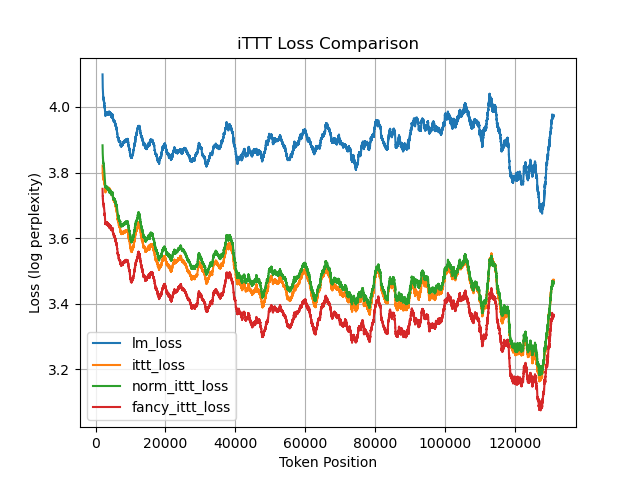
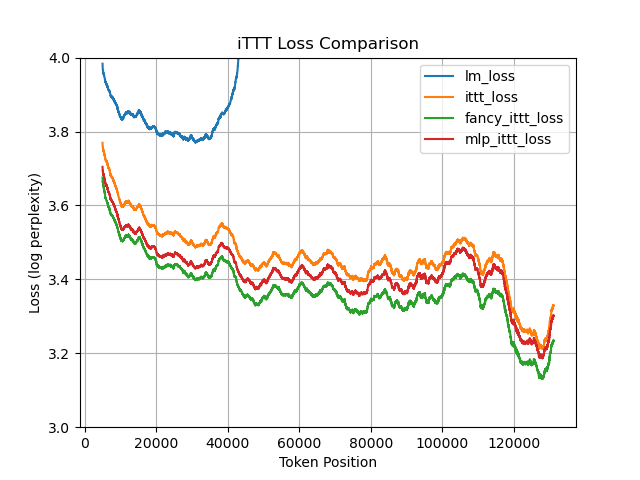
kjnkjn

diff --git a/src/compare_ittt.py b/src/compare_ittt.py
@@ -19,24 +19,24 @@ from utils.loss_utils import lm_loss_fn
 
 DEVICE = torch.device("cuda" if torch.cuda.is_available() else "cpu")
 
-LM_URL = 'aklein4/iTTT-TPU_attn-baseline-1b'
+LM_URL = 'aklein4/iTTT-TPU_attn-baseline-theta-1b'
 LM_STEP = 2000
 
-ITTT_URL = 'aklein4/iTTT-TPU_fancy-momentum-1b'
+ITTT_URL = 'aklein4/iTTT-TPU_mlp-1b'
 ITTT_STEP = 500
 
 DATA_URL = "Geralt-Targaryen/books3"
 TOKENIZER_URL = os.path.join(constants.LOCAL_DATA_PATH, "tokenizer")
 
 NUM_EXAMPLES = 64
-BS = 8
+BS = 2
 
 SEQUENCE_LENGTH = 1024 * 128
 
-THIS_PREFIX = "fancy_"
+THIS_PREFIX = "mlp_"
 PREFIX = "extrapolate_"
 
-DO_LM = False
+DO_LM = True
 
 
 def main():
@@ -124,13 +124,13 @@ def main():
         lm_losses = torch.cat(lm_losses, dim=0)
         torch.save(
             lm_losses,
-            os.path.join(constants.LOCAL_DATA_PATH, THIS_PREFIX+PREFIX+"lm_losses_for_comparison.pt")
+            os.path.join(constants.LOCAL_DATA_PATH, "theta_"+PREFIX+"lm_losses_for_comparison.pt")
         )
     
     ittt_losses = torch.cat(ittt_losses, dim=0)
     torch.save(
         ittt_losses,
-        os.path.join(constants.LOCAL_DATA_PATH, THIS_PREFIX+PREFIX+"ittt_losses_for_comparison.pt")
+        os.path.join(constants.LOCAL_DATA_PATH, "mlp_"+PREFIX+"ittt_losses_for_comparison.pt")
     )
 
 
@@ -143,16 +143,17 @@ def nan_mean(x):
 
 def analyze_results():
 
-    lm_losses = torch.load(os.path.join(constants.LOCAL_DATA_PATH, PREFIX+"lm_losses_for_comparison.pt")).float().numpy()
+    lm_losses = torch.load(os.path.join(constants.LOCAL_DATA_PATH, "theta_"+PREFIX+"lm_losses_for_comparison.pt")).float().numpy()
     ittt_losses = torch.load(os.path.join(constants.LOCAL_DATA_PATH, PREFIX+"ittt_losses_for_comparison.pt")).float().numpy()
-    norm_ittt_losses = torch.load(os.path.join(constants.LOCAL_DATA_PATH, "norm_"+PREFIX+"ittt_losses_for_comparison.pt")).float().numpy()
+    # norm_ittt_losses = torch.load(os.path.join(constants.LOCAL_DATA_PATH, "norm_"+PREFIX+"ittt_losses_for_comparison.pt")).float().numpy()
     fancy_ittt_losses = torch.load(os.path.join(constants.LOCAL_DATA_PATH, "fancy_"+PREFIX+"ittt_losses_for_comparison.pt")).float().numpy()
+    mlp_ittt_losses = torch.load(os.path.join(constants.LOCAL_DATA_PATH, "mlp_"+PREFIX+"ittt_losses_for_comparison.pt")).float().numpy()
 
     df = pd.DataFrame({
         "lm_loss": nan_mean(lm_losses),
         "ittt_loss": nan_mean(ittt_losses),
-        "norm_ittt_loss": nan_mean(norm_ittt_losses),
         "fancy_ittt_loss": nan_mean(fancy_ittt_losses),
+        "mlp_ittt_loss": nan_mean(mlp_ittt_losses),
     })
 
     print("\n === Average Losses === ")
@@ -163,7 +164,7 @@ def analyze_results():
     for col in df.columns:
 
         x = np.arange(len(df[col]))
-        y_running = df[col].rolling(window=2000)
+        y_running = df[col].rolling(window=5000)
         
         plt.plot(x, y_running.mean(), label=col)
     
@@ -173,24 +174,25 @@ def analyze_results():
     plt.title("iTTT Loss Comparison")
     plt.xlabel("Token Position")
     plt.ylabel("Loss (log perplexity)")
+    plt.ylim(3, 4)
 
     plt.savefig(PREFIX+"loss_comparison.png")
     plt.clf()
     
     diff = ittt_losses - lm_losses
-    norm_diff = norm_ittt_losses - lm_losses
     fancy_diff = fancy_ittt_losses - lm_losses
+    mlp_diff = mlp_ittt_losses - lm_losses
 
     df = pd.DataFrame({
         "ittt_diff": nan_mean(diff),
-        "norm_ittt_diff": nan_mean(norm_diff),
         "fancy_ittt_diff": nan_mean(fancy_diff),
+        "mlp_ittt_diff": nan_mean(mlp_diff),
     })
 
     for col in df.columns:
         
         x = np.arange(len(df[col]))
-        y_running = df[col].rolling(window=2000)
+        y_running = df[col].rolling(window=5000)
         
         plt.plot(x, y_running.mean(), label=col)
     
